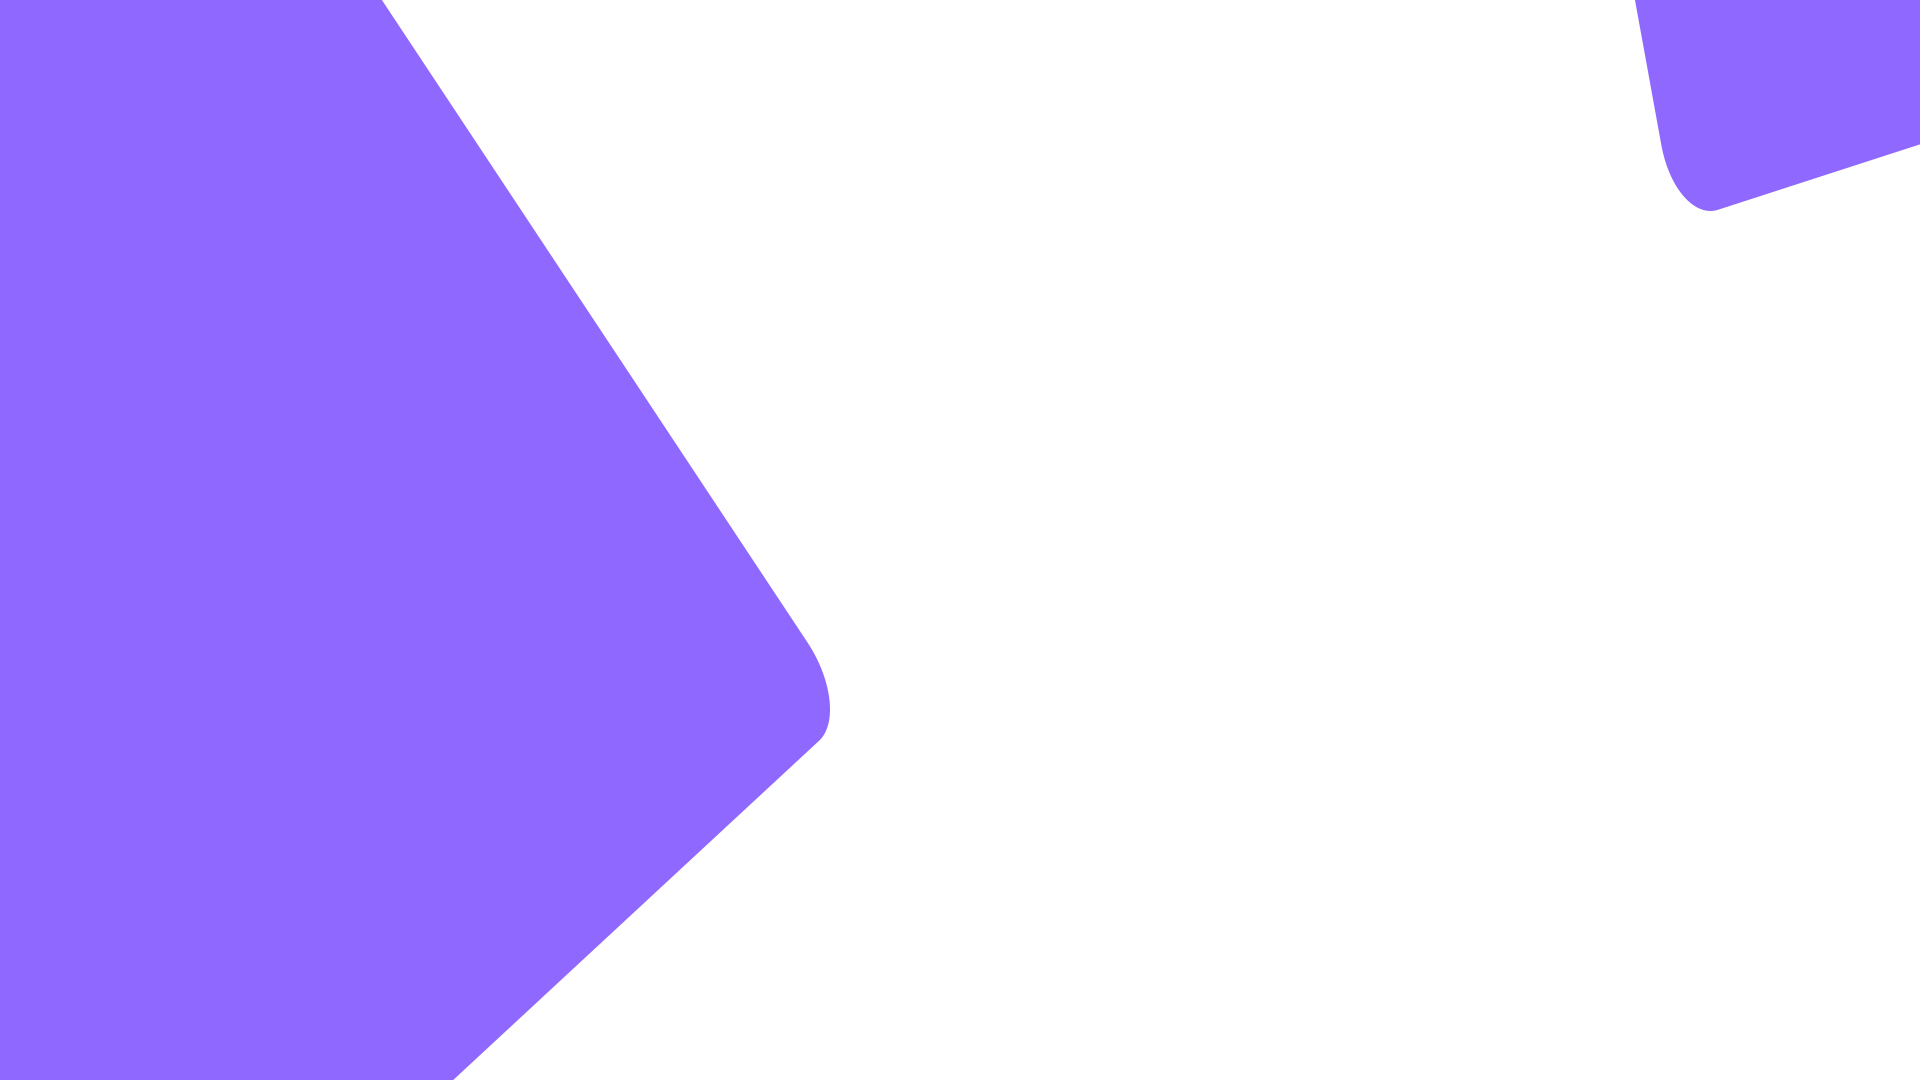
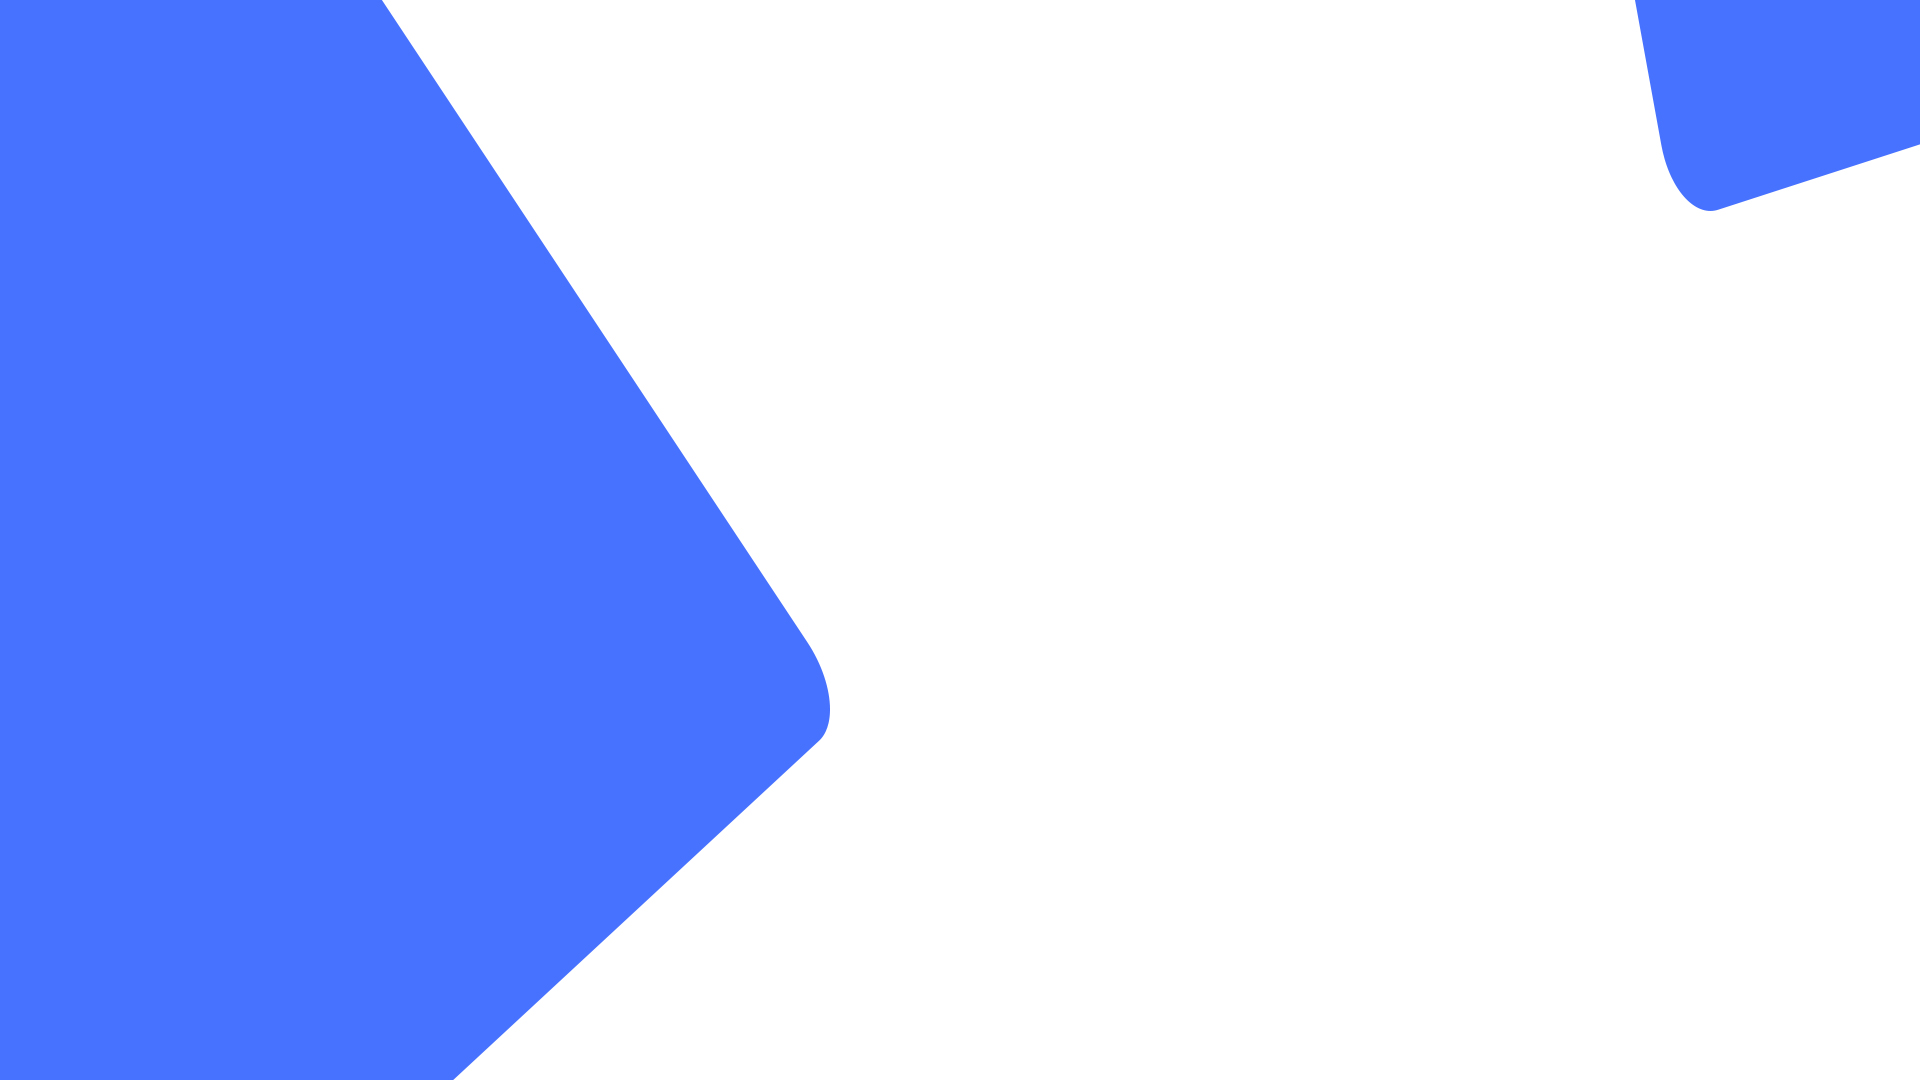
Mudança de cores

diff --git a/site-institucional/css/style-index.css b/site-institucional/css/style-index.css
@@ -122,7 +122,7 @@ html {
     position: absolute;
     width: 50px;
     height: 50px;
-    background: rgb(112, 36, 253);
+    background: #214acf;
     right: -6%;
     top: -6%;
     border-radius: 100%;
@@ -457,13 +457,13 @@ div.form-area .text-area {
 
 div.form-area .submit-btn {
     font-weight: bold;
-    background: rgb(128, 100, 255);
-    border: 1px solid rgb(128, 100, 255);
+    background: #4772ff;
+    border: 1px solid #4772ff;
     color: white;
 }
 
 div.form-area .submit-btn:hover {
-    color: rgb(128, 100, 255);
+    color: #4772ff;
     background: white;
     cursor: pointer;
     transition: .5s;
@@ -559,7 +559,7 @@ div.form-area .input:focus, .text-area:focus {
 
     #proximo i:hover{
         transition: 0.5s;
-        color: rgb(128, 100, 255);;
+        color: #4772ff;
     }
     #anterior{
         position: absolute;
@@ -578,5 +578,5 @@ div.form-area .input:focus, .text-area:focus {
 
     #anterior i:hover{
         transition: 0.5s;
-        color: rgb(128, 100, 255);;
+        color: #4772ff;
     }

diff --git a/site-institucional/css/menu-style.css b/site-institucional/css/menu-style.css
@@ -89,7 +89,7 @@ li.menu-button {
     border-radius: 25px;
     padding: 6%;
     width: 50%;
-    background: linear-gradient(to right, rgb(255, 100, 44), rgb(255, 30, 0));
+    background: linear-gradient(to right, #6186ff, #4772ff);
     text-align: center;
     margin-right: 12%;
 }
